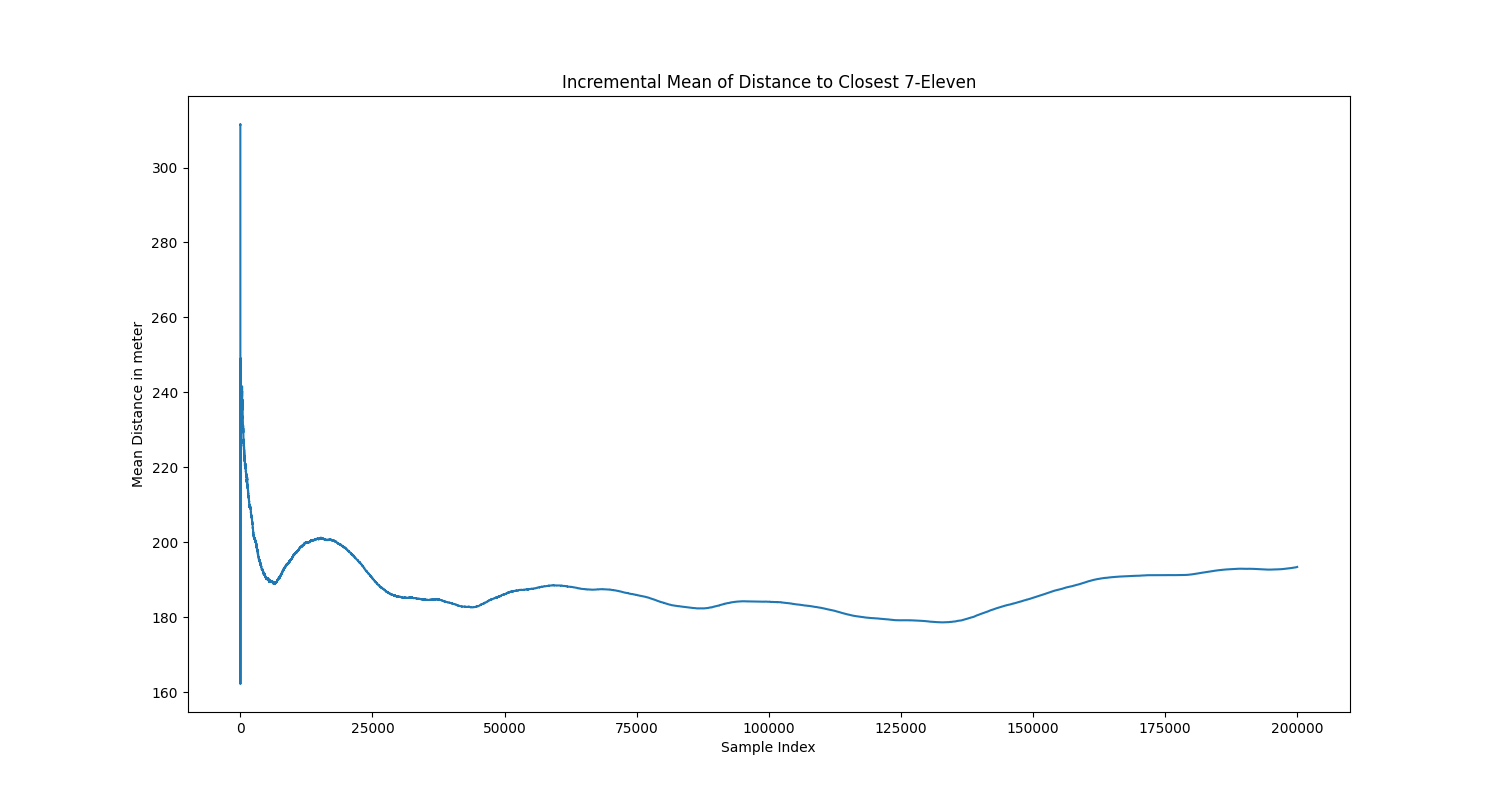
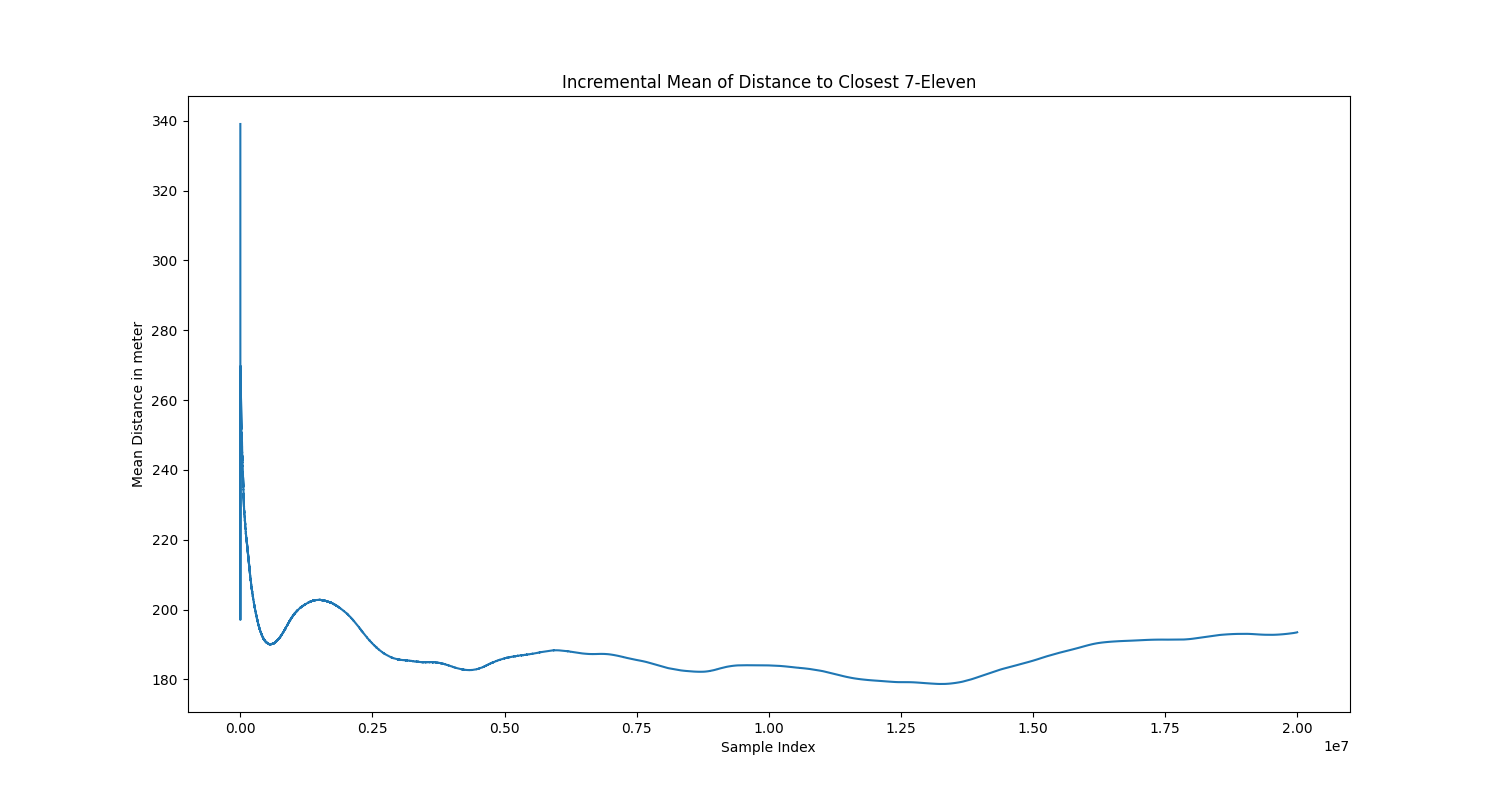
switched to tree based calc

diff --git a/seven_eleven_monte_carlo.py b/seven_eleven_monte_carlo.py
@@ -9,23 +9,16 @@ import tqdm
 import sqlite3
 import pandas as pd
 import matplotlib.pyplot as plt
+from scipy.spatial import cKDTree
+import numpy as np
 
 dotenv.load_dotenv()
 GOOGLE_API_KEY = os.environ.get("GOOGLE_API_KEY")
 
 # API
-REVERSE_GEOLOCATION_API_BASE = "https://maps.googleapis.com/maps/api/geocode/json?latlng="
 PLACES_API_BASE = "https://places.googleapis.com/v1/places:searchText?fields=places.name,places.id,places.displayName,places.location&key="
 ROUTE_API_BASE = "https://maps.googleapis.com/maps/api/directions/json?destination="
 NEARBY_PLACES_API = "https://places.googleapis.com/v1/places:searchNearby?fields=places.displayName,places.formattedAddress,places.location,places.id,places.googleMapsLinks&key="
-
-
-def get_reverse_geolocation_api_call(latlng):
-    api_call = REVERSE_GEOLOCATION_API_BASE
-    api_call += str(latlng[0]) + "," + str(latlng[1])
-    api_call += "&result_type=street_address&key="
-    api_call += GOOGLE_API_KEY
-    return api_call
 
 def get_places_api_call(text_search_query):
     api_call = PLACES_API_BASE
@@ -100,12 +93,6 @@ with open("Sample_Points_For_Finding_Stores.json", "w") as file:
     json.dump([(str(point.x),str(point.y)) for point in sample_points], file)
 
 
-# transform coordinates into adresses with geolocation api
-# for point in sample_points:
-#     res = requests.get(get_reverse_geolocation_api_call((point.x, point.y)))
-#     print(res.json()["results"][0]["formatted_address"])
-
-
 conn = sqlite3.connect("SevenElevenLocations.db")
 cursor = conn.cursor()
 cursor.execute("CREATE TABLE IF NOT EXISTS locations (id TEXT, formattedAddress TEXT, latitude REAL, longitude REAL, displayNameText TEXT, googleMapsLinksPlaceURI TEXT)")
@@ -128,43 +115,37 @@ def get_nearby_places():
                 locations.append(location_data)
             db_res = cursor.executemany("INSERT INTO locations VALUES(?, ?, ?, ?, ?, ?)", locations)
             conn.commit()
-get_nearby_places()
+# get_nearby_places()
 
+# Filter all unique 7-Eleven stores
+req = cursor.execute(r"SELECT DISTINCT * FROM locations WHERE displayNameText LIKE '%7-ELEVEN%'")
+stores = req.fetchall()
 
-def calculate_distances():
-    # Filter all unique 7-Eleven stores
-    req = cursor.execute(r"SELECT DISTINCT * FROM locations WHERE displayNameText LIKE '%7-ELEVEN%'")
-    stores = req.fetchall()
+def build_k_d_tree():
+    store_coords = np.array([(store[2], store[3]) for store in stores])
+    tree = cKDTree(store_coords)
+    return tree
+tree = build_k_d_tree()
 
-    # calculate min distance between each sample point and all 7-Eleven stores in the list
-    N_SAMPLE = 200000
-    sample_points = gdf.sample_points(N_SAMPLE)
+def calculate_distances_with_tree():
+    N_SAMPLE = 20000000
+    sample_points = gdf.sample_points(N_SAMPLE, method="uniform", rng=42)
     sample_points = list(sample_points[0].geoms)
-    point_to_closest_store = {}
-    for point in tqdm.tqdm(sample_points):
-        shortest_dist = 10000
-        for store in stores:
-            if shortest_dist > haversine(point.x, point.y, store[2], store[3]):
-                shortest_dist = haversine(point.x, point.y, store[2], store[3])
-                point_to_closest_store[str(point.x) +","+str(point.y)] = (store[0], shortest_dist)
-        
-        # TODO: Use Route API to compute the walking distance
-
-    with open("mapping_point_closest_store.json", "w") as file:
-        json.dump(point_to_closest_store, file)
-
-calculate_distances()
-
-def visualize_mean_distance():
-    with open("mapping_point_closest_store.json", "r") as file:
-        point_to_closest_store = json.load(file)
+    sample_coords = np.array([(point.x, point.y) for point in sample_points])
+    distances, indices = tree.query(sample_coords, k=1)
+    min_distances = [
+        haversine(sample_coords[i][0], sample_coords[i][1], stores[indices[i]][2], stores[indices[i]][3])
+        for i in range(len(sample_coords))
+    ]
     n = 1
     temporal_mean_average = []
-    mean_average = list(point_to_closest_store.values())[0][1]
-    for distance_mapping in list(point_to_closest_store.values()):
-        mean_average = mean_average + ((1/n) * (distance_mapping[1] - mean_average))
+    mean_average = min_distances[0]
+    for distance in min_distances[1:]:
+        mean_average = mean_average + ((1/n) * (distance - mean_average))
         temporal_mean_average.append(mean_average)
         n += 1
+        if(n % 100000 == 0):
+            print(f"Temporal Mean Average at n={str(n)} is: {mean_average}")
     series_temporal_mean_average = pd.Series(temporal_mean_average)
     plt.figure(figsize=(15,8))
     series_temporal_mean_average.plot()
@@ -174,5 +155,4 @@ def visualize_mean_distance():
     plt.savefig("temporal_mean_average")
 
     print(f"Final Average is: {mean_average}m.")
-
-visualize_mean_distance()
+calculate_distances_with_tree()
